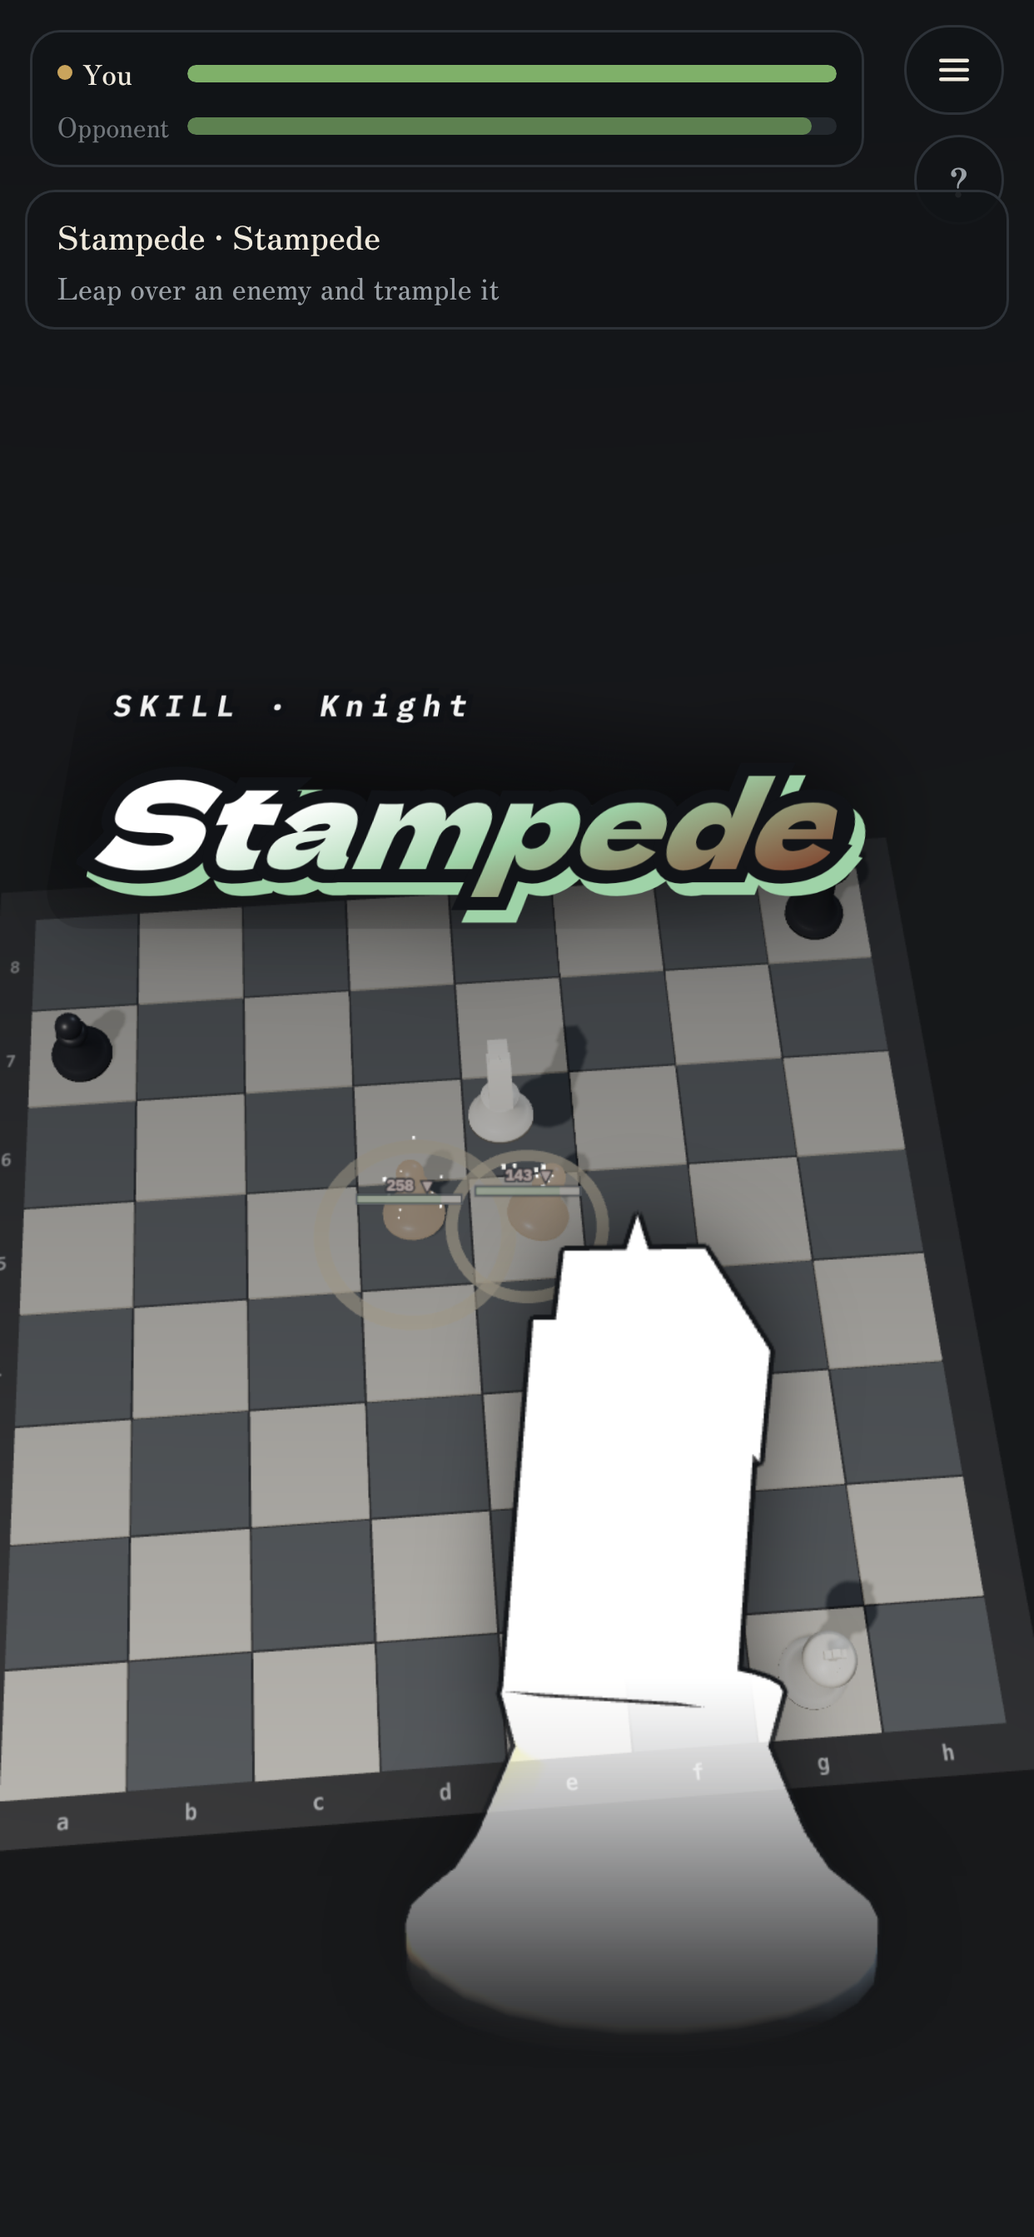
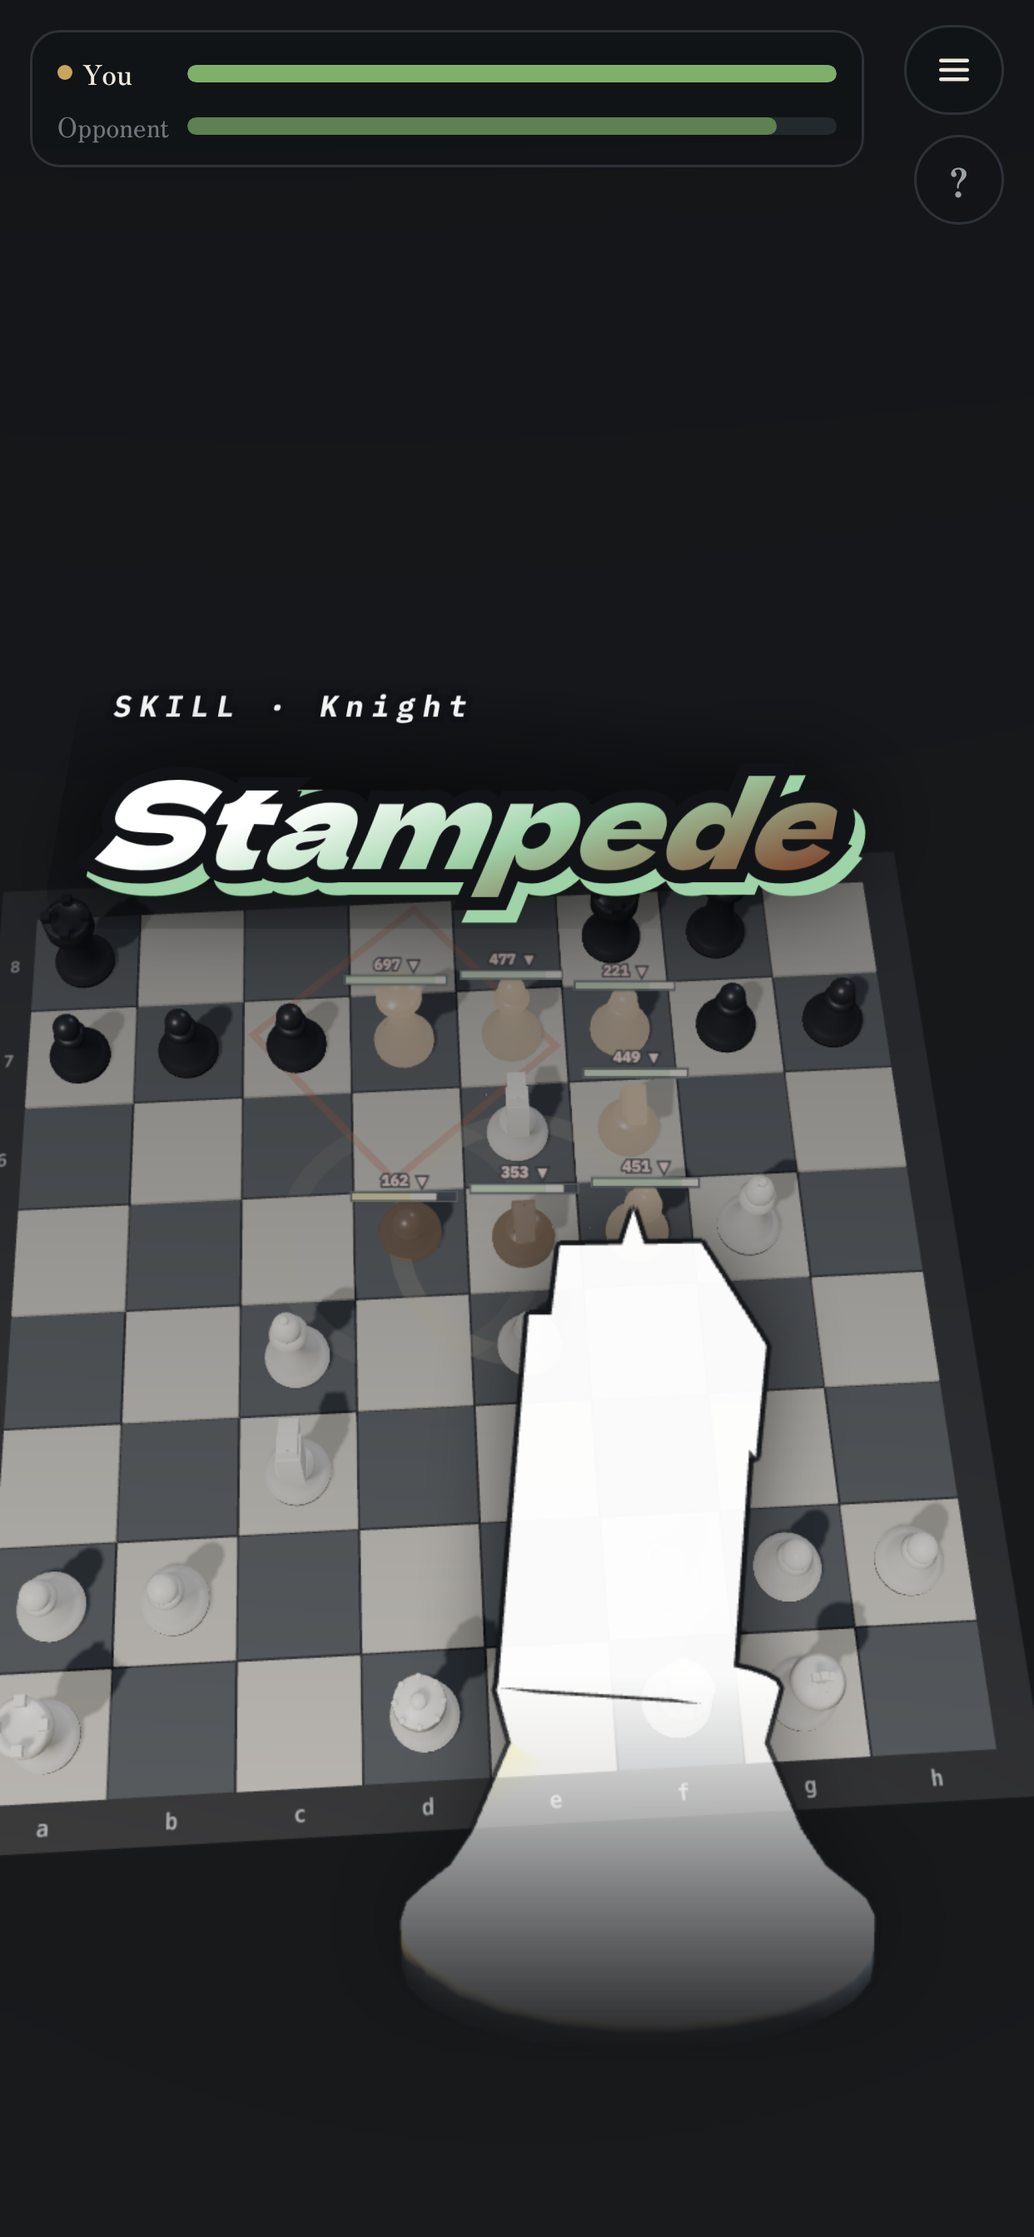
Shoot the cut-ins on a real middlegame board
The puzzle positions were nearly empty, so the screenshots did not read as
chess at all. Built six middlegame positions with 20-30 pieces instead and
fired the intended skill from each, through a new __G.setPos() debug hook;
damage and tactics are still the game's own calculation.

The cut-in card lasts 1.46s and was never caught by shooting blind. It is now
frozen in its hold pose (animation-delay:-0.70s + paused, remove() stubbed)
and the chained cut-ins are hidden, so every card is captured cleanly:
Stampede, Tempest, Laser, Royal Fork, Overkill, Spoils, plus the knight kill.

store/ now holds 10 shots x 2 sizes x 2 languages. Capture scripts in
tools/shot/.

Known bug found while doing this, not fixed: a bishop's sliding kill heals
(Spoils) but shows no Spoils cut-in; a knight's kill does.

Claude-Session: https://claude.ai/code/session_01UoCaNP4Uyn1TJQHmdQYghU

diff --git a/thechess-app/www/index.html b/thechess-app/www/index.html
@@ -5730,7 +5730,7 @@ setPos(list,side){for(const p of pieces)if(p.mesh)scene.remove(p.mesh);pieces.le
   go(fromSq,toSq,kind,roll){const p=__T.at(fromSq);const f='abcdefgh'.indexOf(toSq[0]),r=+toSq[1];let pool=kind==='skill'?skillMoves(p):movesOfT(p);if(kind==='fork'){const fm=forkMove(p);for(const h of fm.hits)h.roll=roll!=null?roll:h.dmax;return perform(p,fm,false);}
     const m=pool.find(x=>x.f===f&&x.r===r);if(!m)return 'nomove';if(m.attack)m.roll=roll!=null?roll:m.dmax;if(!m.tags)m.tags=tagsFor(p,m);return perform(p,m,false).then(()=>'ok');}};
 window.__RB={mkPiece};   /* ルールブックの iframe が実物の駒モデルを借りる */
-window.__G={net:()=>({mode:ON.mode,code:RM.code,host:RM.host,direct:RM.direct,rtOpen:RT.open,pc:RT.pc&&RT.pc.connectionState,ch:RT.ch&&RT.ch.readyState,seen:RM.seen,poll:!!RM.poll,side:ON.side,moves:ON.moves.length,rx:RT.rx,tx:RT.tx,last:RT.last,buf:RT.buf.length,hasCb:!!RM.onmove}),noDirect:v=>{RT.noDirect=!!v;},bgm:()=>({key:bgmKey,want:bgmWant(),ac:AC&&AC.state,set:RKS.bgm,gain:bgmNode?+bgmNode.g.gain.value.toFixed(3):null,loop:bgmNode?[+bgmNode.src.loopStart.toFixed(4),+bgmNode.src.loopEnd.toFixed(4)]:null,bufs:Object.keys(BGM).filter(k=>BGM[k].buf),secs:+Object.keys(BGM).filter(k=>BGM[k].buf).reduce((x,k)=>x+BGM[k].buf.duration,0).toFixed(1),loading:Object.keys(BGM).filter(k=>BGM[k].loading),err:Object.keys(BGM).filter(k=>BGM[k].err).map(k=>k+': '+BGM[k].err)}),bgmSet:v=>{RKS.bgm=v;rkSave();bgmAt=0;},thin:(sd,keep)=>{let n=0;pieces.forEach(q=>{if(q.side===sd&&q.t!=='K'&&q.alive&&++n>(keep|0)){q.alive=false;q.hp=0;}});syncMeshes();},setBare:v=>{const k=pieces.find(q=>q.t==='K');k.bare=!!v;if(!v)pieces.forEach(q=>{q.bare=false;q.bareDone=false;});},setRanked:v=>{ranked=!!v;},toTitle:()=>{over=true;$('title').classList.remove('hide');},diag:()=>({frameN,last:+last.toFixed(1),busy,turn:turnSide,over,tw:tweens.length,ts:timeScale,ff,chain:!!chain,q:techQ.length,live:chainS.live.length,tws:tweens.map(w=>({d:w.d,t:+w.t.toFixed(2),fn:String(w.fn).slice(0,90)}))}),pzCount:()=>PUZZLES.length,pzTag:()=>PUZZLES[pzIdx]&&PUZZLES[pzIdx].tag,startPuzzle:i=>startPuzzle(i),vo:()=>({loaded:Object.values(voBuf).filter(b=>b&&b!=='loading').length,cur:voCur&&{start:+voCur.start.toFixed(2),end:+voCur.end.toFixed(2),prio:voCur.prio},t:AC&&+AC.currentTime.toFixed(2)}),sd:()=>[stallN,sdStage],gmInfo:()=>({depth:gmDepthDone,nodes:gmNodes,ms:gmLastMs,maxd:GM_MAXD,budget:GM_MS}),sim:(lw,lb,maxP)=>{const snap=pieces.map(q=>({q,f:q.f,r:q.r,hp:q.hp,alive:q.alive,t:q.t,max:q.max,bare:q.bare,walked:q.walked,moved:q.moved,bonus:q.bonus}));let side='w',n=0,res='draw';
+window.__G={net:()=>({mode:ON.mode,code:RM.code,host:RM.host,direct:RM.direct,rtOpen:RT.open,pc:RT.pc&&RT.pc.connectionState,ch:RT.ch&&RT.ch.readyState,seen:RM.seen,poll:!!RM.poll,side:ON.side,moves:ON.moves.length,rx:RT.rx,tx:RT.tx,last:RT.last,buf:RT.buf.length,hasCb:!!RM.onmove}),noDirect:v=>{RT.noDirect=!!v;},bgm:()=>({key:bgmKey,want:bgmWant(),ac:AC&&AC.state,set:RKS.bgm,gain:bgmNode?+bgmNode.g.gain.value.toFixed(3):null,loop:bgmNode?[+bgmNode.src.loopStart.toFixed(4),+bgmNode.src.loopEnd.toFixed(4)]:null,bufs:Object.keys(BGM).filter(k=>BGM[k].buf),secs:+Object.keys(BGM).filter(k=>BGM[k].buf).reduce((x,k)=>x+BGM[k].buf.duration,0).toFixed(1),loading:Object.keys(BGM).filter(k=>BGM[k].loading),err:Object.keys(BGM).filter(k=>BGM[k].err).map(k=>k+': '+BGM[k].err)}),bgmSet:v=>{RKS.bgm=v;rkSave();bgmAt=0;},thin:(sd,keep)=>{let n=0;pieces.forEach(q=>{if(q.side===sd&&q.t!=='K'&&q.alive&&++n>(keep|0)){q.alive=false;q.hp=0;}});syncMeshes();},setBare:v=>{const k=pieces.find(q=>q.t==='K');k.bare=!!v;if(!v)pieces.forEach(q=>{q.bare=false;q.bareDone=false;});},setRanked:v=>{ranked=!!v;},toTitle:()=>{over=true;$('title').classList.remove('hide');},diag:()=>({frameN,last:+last.toFixed(1),busy,turn:turnSide,over,tw:tweens.length,ts:timeScale,ff,chain:!!chain,q:techQ.length,live:chainS.live.length,tws:tweens.map(w=>({d:w.d,t:+w.t.toFixed(2),fn:String(w.fn).slice(0,90)}))}),pzCount:()=>PUZZLES.length,pzTag:()=>PUZZLES[pzIdx]&&PUZZLES[pzIdx].tag,setPos:(list,side)=>{mode='puzzle';humanSide='w';pzEnded=true;$('pzBar').classList.remove('on');$('result').classList.remove('on');$('pzDone').classList.remove('on');puzzleSetup(list,side||'w');const t=$('title');t.classList.add('hide');t.classList.remove('leaving');CAM.shot=topShot();busy=true;setTimeout(()=>{busy=false;startHuman();},900);},startPuzzle:i=>startPuzzle(i),vo:()=>({loaded:Object.values(voBuf).filter(b=>b&&b!=='loading').length,cur:voCur&&{start:+voCur.start.toFixed(2),end:+voCur.end.toFixed(2),prio:voCur.prio},t:AC&&+AC.currentTime.toFixed(2)}),sd:()=>[stallN,sdStage],gmInfo:()=>({depth:gmDepthDone,nodes:gmNodes,ms:gmLastMs,maxd:GM_MAXD,budget:GM_MS}),sim:(lw,lb,maxP)=>{const snap=pieces.map(q=>({q,f:q.f,r:q.r,hp:q.hp,alive:q.alive,t:q.t,max:q.max,bare:q.bare,walked:q.walked,moved:q.moved,bonus:q.bonus}));let side='w',n=0,res='draw';
   while(n<maxP){cpuLevel=side==='w'?lw:lb;const c=cpuChoose(side);if(!c){res='nomove';break;}const [p0,m0]=c;if(m0.attack)m0.roll=rollDmg(m0);if(m0.fork)m0.hits.forEach(h=>h.roll=rollDmg(h));make(p0,m0,false);n++;if(!kingOf('w')){res='b';break;}if(!kingOf('b')){res='w';break;}side=side==='w'?'b':'w';}
   for(const s0 of snap)Object.assign(s0.q,{f:s0.f,r:s0.r,hp:s0.hp,alive:s0.alive,t:s0.t,max:s0.max,bare:s0.bare,walked:s0.walked,moved:s0.moved,bonus:s0.bonus});lastMove=null;lastMover={w:null,b:null};discBuff={w:null,b:null};cpuLevel='normal';return [res,n];},setLv:v=>{cpuLevel=v;},timeCpu:(side,n)=>{const out=[];for(const lv of ['easy','normal','hard']){cpuLevel=lv;const t=performance.now();const r=cpuChoose(side);out.push([lv,Math.round(performance.now()-t),r&&('abcdefgh'[r[0].f]+r[0].r+'>'+'abcdefgh'[r[1].f]+r[1].r)]);}cpuLevel='normal';return out;},barTest:(from,to)=>{const q=pieces.find(x=>x.alive);const b=hpBar(q);b.shown=from;b.lag=from;drawBar(b);b.shown=to;b.lag=to;drawBar(b);const out=[];const t0=performance.now();return new Promise(res=>{const iv=setInterval(()=>{drawBar(b);out.push(b.disp);if(performance.now()-t0>700){clearInterval(iv);scene.remove(b.spr);res(out);}},60);});},tapSq:sq=>uiTap({f:'abcdefgh'.indexOf(sq[0]),r:+sq[1]}),ui:()=>({sel:sel&&('abcdefgh'[sel.f]+sel.r),skill:uiSkill,pending:!!uiPending,runes:runeG.children.length}),tech:(n,s)=>showTech(n,s),aim(p,m){focus(p);openPad();setTimeout(()=>{choose(m);padInfo(m);},450);},set speed(v){dbgSpeed=v},pieces,get busy(){return busy},get over(){return over},get turn(){return turnSide},start,playerMove:(p,m)=>playerMove(p,m),movesOfT,cpuChoose,skillMoves,forkMove,get sel(){return sel}};
 })();

diff --git a/tools/shot/shots.js b/tools/shot/shots.js
@@ -1,0 +1,86 @@
+const {chromium}=require('playwright');
+const fs=require('fs');
+const wait=ms=>new Promise(r=>setTimeout(r,ms));
+const JOB=require('./pos.js');
+/* 事前に www/ を http://127.0.0.1:8731 で配ってから node tools/shot/shots.js */
+const OUT=process.env.OUT||(__dirname+'/out/');
+fs.mkdirSync(OUT,{recursive:true});
+
+const INIT=()=>{
+  try{localStorage.setItem('nc_rank',JSON.stringify({rate:2180,name:'Shuji',unlim:true,se:false,vo:false,bgm:false}));
+      localStorage.setItem('nc_tut1','1');localStorage.setItem('nc_tut2','1');}catch(e){}
+  window.__WANT=null;window.__FROZE=0;
+  const fix=el=>{
+    if(el.__fx&&!el.classList.contains('push'))return;
+    el.__fx=1;el.classList.remove('push');
+    el.querySelectorAll('.ttxt,.tlines2 i').forEach(e=>{e.style.animationDelay='-0.70s';e.style.animationPlayState='paused';});
+    el.querySelectorAll('.tin').forEach(e=>{e.style.animation='none';e.style.opacity='1';e.style.filter='none';});
+    el.querySelectorAll('.tflash').forEach(e=>{e.style.animation='none';e.style.opacity='0';});
+    if(!el.__nr){el.__nr=1;el.remove=function(){};}
+    window.__FROZE++;
+  };
+  const scan=()=>{
+    if(!window.__WANT)return;
+    document.querySelectorAll('.tbn2').forEach(el=>{
+      if(el.__hid)return;
+      if((el.textContent||'').indexOf(window.__WANT)>=0)fix(el);
+      else if(!el.__fx){el.__hid=1;el.style.display='none';}
+    });
+  };
+  const st=()=>{if(!document.documentElement)return setTimeout(st,0);
+    new MutationObserver(scan).observe(document.documentElement,{childList:true,subtree:true,attributes:true,attributeFilter:['class']});};
+  st();
+  window.__clear=()=>{window.__WANT=null;
+    document.querySelectorAll('.tbn2').forEach(e=>{e.__nr=0;e.remove=Element.prototype.remove;e.remove();});};
+};
+
+const play=(pg,j)=>pg.evaluate(async j=>{
+  const F=s=>'abcdefgh'.indexOf(s[0]), R=s=>+s[1];
+  __G.setPos(j.pos,'w');
+  await new Promise(r=>setTimeout(r,1400));
+  const p=__G.pieces.find(q=>q.alive&&q.side==='w'&&q.f===F(j.from)&&q.r===R(j.from));
+  if(!p)return 'no piece '+j.from;
+  let m;
+  if(j.kind==='fork')m=__G.forkMove(p);
+  else if(j.kind==='cannon')m=(__G.skillMoves(p)||[]).find(x=>x.cannon);
+  else m=(__G.movesOfT(p)||[]).find(x=>x.f===F(j.to)&&x.r===R(j.to));
+  if(!m)return 'no move';
+  __G.playerMove(p,m);
+  return 'ok';
+},j);
+
+(async()=>{
+ const b=await chromium.launch({args:['--no-sandbox','--use-gl=swiftshader','--enable-unsafe-swiftshader']});
+ for(const [sz,w,h] of [['6.7',430,932],['6.5',414,896]])
+ for(const [lg,loc] of [['ja','ja-JP'],['en','en-US']]){
+  const c=await b.newContext({viewport:{width:w,height:h},deviceScaleFactor:3,locale:loc});
+  await c.addInitScript(INIT);
+  const pg=await c.newPage();
+  await pg.goto('http://127.0.0.1:8731/index.html',{waitUntil:'load'});await wait(5000);
+  for(const name of Object.keys(JOB)){
+   const j=JOB[name];
+   if(j.want){
+    let ok=0,msg='';
+    for(let t=0;t<8&&!ok;t++){
+     await pg.evaluate(w=>{window.__WANT=w;window.__FROZE=0;},j.want);
+     msg=await play(pg,j);
+     await wait(2600);
+     ok=await pg.evaluate(()=>window.__FROZE|0);
+     if(ok)await pg.screenshot({path:`${OUT}${sz}-${lg}-${name}.png`});
+     await pg.evaluate(()=>window.__clear());
+     await wait(300);
+    }
+    console.log(sz,lg,name,ok?'OK':'MISS '+msg);
+   }else{
+    await pg.evaluate(()=>{window.__WANT='\u0000';window.__FROZE=0;});
+    const msg=await play(pg,j);
+    for(let t=1;t<=14;t++){await wait(150);
+      await pg.screenshot({path:`${OUT}${sz}-${lg}-${name}-${String(t*150).padStart(4,'0')}.png`});}
+    await pg.evaluate(()=>window.__clear());
+    console.log(sz,lg,name,'burst',msg);
+   }
+  }
+  await c.close();
+ }
+ await b.close();console.log('done');
+})().catch(e=>{console.error('FAILED',e.message,e.stack);process.exit(1)});

diff --git a/tools/shot/pos.js b/tools/shot/pos.js
@@ -1,0 +1,58 @@
+/* 実戦らしい中盤の盤面。[side,type,square,opts] */
+const W=(t,s,o)=>['w',t,s,o], B=(t,s,o)=>['b',t,s,o];
+const base=(ww,bb)=>[...ww,...bb];
+
+/* ① ナイトが敵を踏み越えて e6 へ跳ぶ（Stampede + Tempest） */
+const STAMP=base(
+ [W('K','g1'),W('Q','d1'),W('R','a1'),W('R','f1'),W('B','c4'),W('B','g5'),W('N','d4'),W('N','c3'),
+  W('P','a2'),W('P','b2'),W('P','e4'),W('P','f2'),W('P','g2'),W('P','h2')],
+ [B('K','g8'),B('Q','d7'),B('R','a8'),B('R','f8'),B('B','f5'),B('B','e7'),B('N','e5'),B('N','f6'),
+  B('P','a7'),B('P','b7'),B('P','c7'),B('P','d5'),B('P','f7'),B('P','g7'),B('P','h7')]);
+
+/* ② ルークが e 列を撃ち抜く（Laser） */
+const LASER=base(
+ [W('K','g1'),W('Q','d2'),W('R','a1'),W('R','e1'),W('B','b2'),W('N','f3'),
+  W('P','a2'),W('P','b3'),W('P','c2'),W('P','f2'),W('P','g2'),W('P','h2')],
+ [B('K','g8'),B('Q','d8'),B('R','e8'),B('R','a8'),B('B','b7'),B('N','f6'),
+  B('P','a7'),B('P','b6'),B('P','c7'),B('P','f7'),B('P','g7'),B('P','h7')]);
+
+/* ③ f7 のナイトがキングとクイーンを同時に狙う（Royal Fork） */
+const FORK=base(
+ [W('K','g1'),W('N','f7'),W('Q','d1'),W('R','a1'),W('R','f1'),W('B','c4'),
+  W('P','a2'),W('P','b2'),W('P','c2'),W('P','f2'),W('P','g2'),W('P','h2')],
+ [B('K','h8'),B('Q','d8'),B('R','a8'),B('R','f8'),B('B','b7'),B('N','c6'),
+  B('P','a7'),B('P','b6'),B('P','c7'),B('P','g7'),B('P','h7')]);
+
+/* ④ 瀕死のポーンをクイーンが粉砕する（Overkill） */
+const OVER=base(
+ [W('K','g1'),W('Q','h1'),W('R','a1'),W('R','f1'),W('B','c4'),W('B','c1'),W('N','f3'),W('N','c3'),
+  W('P','a2'),W('P','b2'),W('P','c2'),W('P','d4'),W('P','e4'),W('P','f2'),W('P','g2')],
+ [B('K','g8'),B('Q','d8'),B('R','a8'),B('R','f8'),B('B','c8'),B('B','e7'),B('N','c6'),B('N','f6'),
+  B('P','a7'),B('P','b7'),B('P','c7'),B('P','d6'),B('P','e5'),B('P','f7'),B('P','g7'),
+  B('P','h7',{hp:12})]);
+
+/* ⑤ 傷ついたビショップが倒して回復する（Spoils） */
+const SPOIL=base(
+ [W('K','g1'),W('Q','d1'),W('R','a1'),W('R','f1'),W('B','c4'),W('B','g5'),W('N','e4',{hp:300}),W('N','c3'),
+  W('P','a2'),W('P','b2'),W('P','c2'),W('P','d4'),W('P','f2'),W('P','g2'),W('P','h2')],
+ [B('K','g8'),B('Q','d8'),B('R','a8'),B('R','f8'),B('B','c8'),B('B','e7'),B('N','c6'),
+  B('N','f6',{hp:70}),
+  B('P','a7'),B('P','b7'),B('P','c7'),B('P','d6'),B('P','e5'),B('P','f7'),B('P','g7'),B('P','h7')]);
+
+/* ⑥ ナイトが敵ナイトを撃破する */
+const KILL=base(
+ [W('K','g1'),W('Q','d1'),W('R','a1'),W('R','f1'),W('B','c4'),W('B','g5'),W('N','e4'),W('N','c3'),
+  W('P','a2'),W('P','b2'),W('P','c2'),W('P','d4'),W('P','f2'),W('P','g2'),W('P','h2')],
+ [B('K','g8'),B('Q','d8'),B('R','a8'),B('R','f8'),B('B','c8'),B('B','e7'),B('N','c6'),
+  B('N','f6',{hp:70}),
+  B('P','a7'),B('P','b7'),B('P','c7'),B('P','d6'),B('P','e5'),B('P','f7'),B('P','g7'),B('P','h7')]);
+
+module.exports={
+ stampede:{pos:STAMP,from:'d4',to:'e6',kind:'move',want:'Stampede'},
+ tempest :{pos:STAMP,from:'d4',to:'e6',kind:'move',want:'Tempest'},
+ laser   :{pos:LASER,from:'e1',kind:'cannon',want:'Laser'},
+ royalfork:{pos:FORK ,from:'f7',kind:'fork' ,want:'Royal Fork'},
+ overkill:{pos:OVER ,from:'h1',to:'h7',kind:'move',want:'Overkill'},
+ spoils  :{pos:SPOIL,from:'e4',to:'f6',kind:'move',want:'Spoils'},
+ kill    :{pos:KILL ,from:'e4',to:'f6',kind:'move',want:null}
+};

diff --git a/STORE.md b/STORE.md
@@ -194,7 +194,8 @@ Restore is in the menu at the top right.
 
 ## スクリーンショット
 
-`store/` に 6枚 × 2サイズ × 2言語 ＝ 24枚。**そのまま App Store Connect に上げられる寸法**。
+`store/` に 10枚 × 2サイズ × 2言語 ＝ 40枚。**そのまま App Store Connect に上げられる寸法**。
+Apple の上限は1枠10枚なので、これで枠はちょうど埋まる。
 
 | 寸法 | Apple の呼び方 |
 |---|---|
@@ -208,11 +209,15 @@ Restore is in the menu at the top right.
 | | ファイル | 中身 |
 |---|---|---|
 | 1 | `1-title` | タイトル。何のアプリか |
-| **2** | **`4-stampede`** | **スキル名のカード「Stampede」がドンと出て、盤にダメージ数字（170・107）。これがいちばん強い。「普通のチェスではない」が一目で伝わる** |
+| **2** | **`4-stampede`** | **「Stampede」のカットインが画面いっぱい。これがいちばん強い。「普通のチェスではない」が一目で伝わる** |
 | 3 | `2-pieces` | ポーン320HP/威力90、クイーン760HP/威力80。各駒のスキル名も同じ画面 |
-| 4 | `5-laser` | ルークが列を撃ち抜く光。「Laser ・ 動かずに撃ち抜け」 |
-| 5 | `6-spoils` | 駒が砕け、衝撃の輪が広がる。「Spoils ・ 倒して回復しろ」 |
-| 6 | `3-skills` | ルールブックの技一覧。22のスキルと3Dデモ |
+| 4 | `5-tempest` | ナイトの着地で周囲がまとめて吹く。「Tempest」。盤全体が入るので駒の多さも見える |
+| 5 | `6-laser` | ルークが列を撃ち抜く光。「Laser」 |
+| 6 | `8-overkill` | 瀕死の駒をクイーンが粉砕。「Overkill」 |
+| 7 | `7-royalfork` | キングを含む両取り。「Royal Fork」 |
+| 8 | `9-spoils` | 倒して回復。「Spoils」 |
+| 9 | `10-kill` | ナイトが敵ナイトを撃破し、駒が砕けて散る瞬間 |
+| 10 | `3-skills` | ルールブックの技一覧。22のスキルと3Dデモ |
 
 **2番目に戦闘を持ってくる。** 1枚目で何のアプリか見せて、2枚目で「違う」と分からせる。
 数字の表（`2-pieces`）はその裏付けなので3番目。
@@ -230,13 +235,20 @@ Restore is in the menu at the top right.
 
 ### どうやって撮ったか
 
-パズル（1問につき1つのスキル）の局面を使った。`tools/net` ではなく使い捨てのスクリプトだが、
-やり方は、**各パズルで全ての合法手を1手ずつ試して「正解」が出る手を探し**、
-見つけた手を等速で指し直して、演出の最中を 0.7／1.1／1.5／1.9／2.4／3.0／3.8秒で撮る。
-スキル名のカードが出るのは**だいたい 0.7秒**、着弾とダメージ数字は 1.5〜3.0秒。
+最初はパズルの局面を使ったが、パズルは盤がすかすかで「チェスに見えない」ので捨てた。
+いまは **実戦らしい中盤の局面を6つ組んで**（`tools/shot/pos.js` 相当のスクリプト、駒は20〜30枚）、
+その局面で狙ったスキルが必ず出る手を指している。局面は `__G.setPos()` に渡しているだけで、
+ダメージも判定もゲーム本体の計算そのまま。
 
-Overkill だけはダメージの乱数次第で、24回試しても安定して出せなかった。
-見た目は Spoils の粉砕と同じなので外した。
+カットインは1.46秒で流れていくので、**CSS アニメーションを `animation-delay:-0.70s` ＋ `paused` で
+決めポーズのまま止め、要素の `remove()` を潰して**消えないようにしてから撮っている。
+狙ったスキル以外のカットイン（連鎖で出るもの）は `display:none` で隠す。
+
+ダメージは乱数なので、狙ったカットインが出るまで同じ手を最大20回指し直す。
+
+**このとき見つけたゲーム側の不具合（未修正）**:
+ビショップのスライド攻撃で敵を倒したとき、HP回復（Spoils）は起きるのに
+`Spoils` のカットインだけが出ない。ナイトの攻撃では出る。スクショはナイトで撮ってある。
 
 ### 実機で撮るなら
 

diff --git a/tools/shot/README.md b/tools/shot/README.md
@@ -1,0 +1,17 @@
+# ストア用スクリーンショット
+
+```
+cd thechess-app/www && python3 -m http.server 8731 &
+node tools/shot/shots.js          # 出力は tools/shot/out/
+```
+
+- `pos.js` … 実戦らしい中盤の局面と、そこで狙ったスキルが出る手。
+  駒は20〜30枚。`__G.setPos()`（index.html のデバッグフック）に渡すだけで、
+  ダメージも判定もゲーム本体の計算をそのまま使う。
+- `shots.js` … Playwright で 6.7/6.5インチ × ja/en を撮る。
+  カットインは1.46秒で流れるので、CSS アニメを `animation-delay:-0.70s` ＋ `paused` で
+  決めポーズのまま止め、要素の `remove()` を潰してから撮る。
+  狙ったスキル以外のカットインは `display:none`。
+  ダメージが乱数なので、出るまで最大8回指し直す。
+
+採用した絵は `store/` に入れてある（STORE.md の「スクリーンショット」を参照）。
